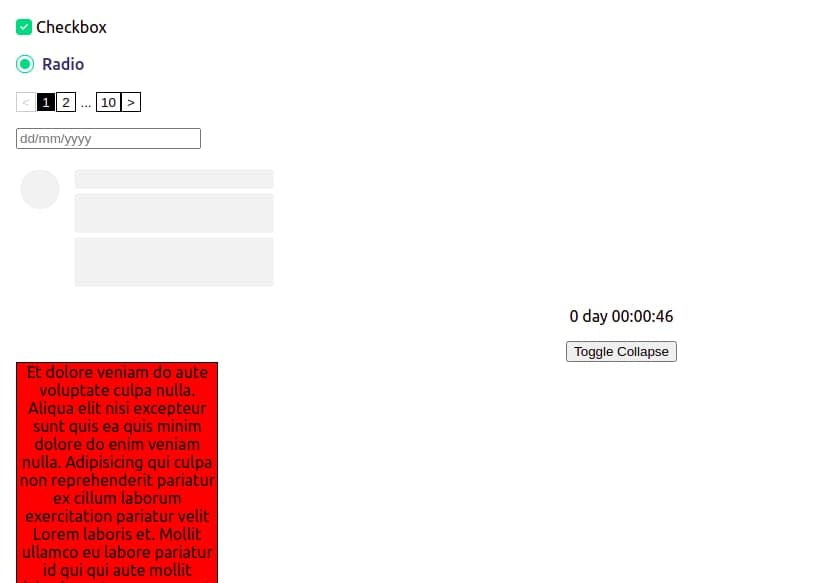
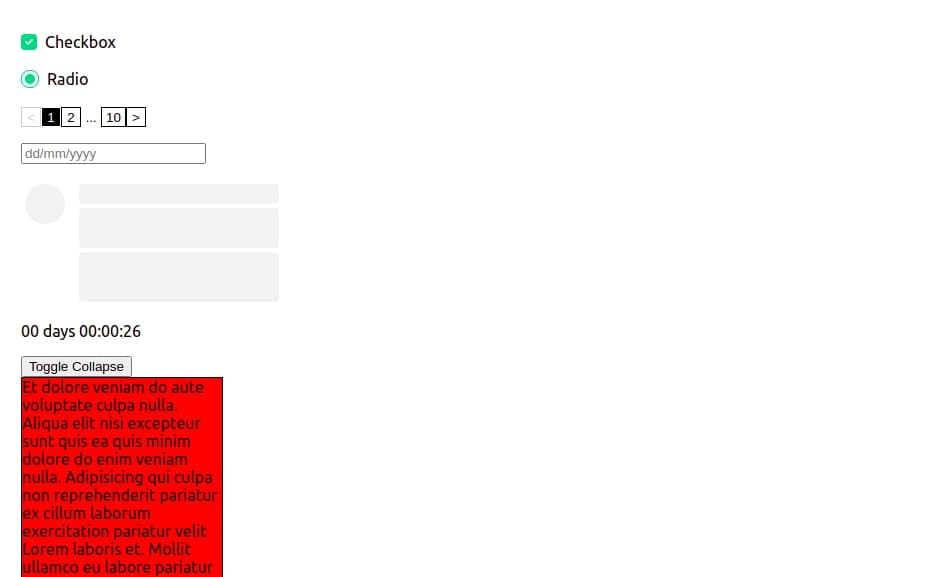
update render in countdown

Changed region(s): [[0.0, 0.5615, 0.2747, 1.0], [0.0, 0.0312, 0.2442, 0.2808], [0.7021, 0.5303, 0.8242, 0.6239]]

diff --git a/src/components/CountDown/index.tsx b/src/components/CountDown/index.tsx
@@ -5,26 +5,18 @@ import {
   MIN_TO_MILISEC,
   SEC_TO_MILISEC,
 } from "./constants";
-import { SCountDown } from "./styles";
-import {
-  CountdownImperativeHandle,
-  ETimerElemen,
-  Props,
-  StateTimer,
-} from "./types";
-import { padTimerElemen } from "./utils";
+import { CountdownImperativeHandle, Props, StateTimer } from "./types";
+import { padTimer } from "./utils";
 
 const CountDown = React.forwardRef<CountdownImperativeHandle, Props>(
   (props, ref) => {
     const {
       then,
-      hideHour = false,
-      hideMin = false,
-      hideSec = false,
-      hideDay = false,
       loading,
       onFinish,
       renderCompletionist,
+      renderer,
+      padNumber = 2,
     } = props;
 
     const refInterval = useRef<any>(null);
@@ -70,47 +62,26 @@ const CountDown = React.forwardRef<CountdownImperativeHandle, Props>(
       // eslint-disable-next-line react-hooks/exhaustive-deps
     }, []);
 
-    if (renderCompletionist) {
-      if (timer.s === 0) {
+    if (timer.s === 0) {
+      if (renderCompletionist) {
         return renderCompletionist();
       }
     }
 
-    if (loading && timer.s === null) {
-      return loading;
+    if (timer.s === null) {
+      if (loading) {
+        return loading;
+      }
+      return null;
     }
 
-    return (
-      <SCountDown>
-        <RenderTimerElemen type={ETimerElemen.D} val={timer.d} hide={hideDay} />
-        <RenderTimerElemen
-          type={ETimerElemen.H}
-          val={timer.h}
-          hide={hideHour}
-        />
-        <RenderTimerElemen type={ETimerElemen.M} val={timer.m} hide={hideMin} />
-        <RenderTimerElemen type={ETimerElemen.S} val={timer.s} hide={hideSec} />
-      </SCountDown>
-    );
+    return renderer({
+      day: padTimer(timer.d, padNumber),
+      hour: padTimer(timer.h, padNumber),
+      min: padTimer(timer.m, padNumber),
+      sec: padTimer(timer.s, padNumber),
+    });
   }
 );
-
-const RenderTimerElemen = ({
-  val,
-  hide,
-  type,
-}: {
-  val: number | null;
-  hide: boolean;
-  type: ETimerElemen;
-}) => {
-  return !hide && val !== null ? (
-    <span>
-      {type === ETimerElemen.D
-        ? `${val} ${val > 1 ? "days " : "day "}`
-        : padTimerElemen(val, type !== ETimerElemen.S)}
-    </span>
-  ) : null;
-};
 
 export default CountDown;

diff --git a/src/App.tsx b/src/App.tsx
@@ -1,5 +1,4 @@
 import React, { useState } from "react";
-import "./App.css";
 import Checkbox from "components/Checkbox";
 import Pagination from "components/Pagination";
 import Radio from "components/Radio";
@@ -18,10 +17,18 @@ function App() {
   return (
     <div className="App">
       <p>
-        <Checkbox text="Checkbox" checked={state} onChange={() => setState((prev) => !prev)} />
+        <Checkbox
+          label="Checkbox"
+          checked={state}
+          onChange={() => setState((prev) => !prev)}
+        />
       </p>
       <p>
-        <Radio text="Radio" checked={state} onChange={() => setState((prev) => !prev)} />
+        <Radio
+          label="Radio"
+          checked={state}
+          onChange={() => setState((prev) => !prev)}
+        />
       </p>
       <p>
         <Pagination
@@ -69,6 +76,11 @@ function App() {
           loading={<p>Loading countdown ...</p>}
           then={new Date(new Date(new Date().getTime() + 60000))}
           renderCompletionist={() => <p>FINISH !!!</p>}
+          renderer={({ day, hour, min, sec }) => (
+            <div>
+              {day} days {hour}:{min}:{sec}
+            </div>
+          )}
         />
       </p>
       <p>

diff --git a/src/components/Radio.tsx b/src/components/Radio.tsx
@@ -4,17 +4,17 @@ import styled from "styled-components";
 interface Props {
   checked?: boolean;
   onChange?: () => void;
-  text?: string;
+  label?: string;
 }
 
-export default function Radio({ checked = false, onChange, text = "" }: Props) {
+export default function Radio({ checked = false, onChange, label = "" }: Props) {
   return (
     <SRadio
       className={`${checked ? "checked" : ""}`}
       {...{ onClick: onChange }}
     >
       <div className="radio"></div>
-      <span className="label">{text}</span>
+      <span className="label">{label}</span>
     </SRadio>
   );
 }
@@ -53,9 +53,6 @@ export const SRadio = styled.div`
     .radio {
       border-color: #9ab1cc;
     }
-    .label {
-      color: #718098;
-    }
   }
   &:not(.checked) {
     &:hover {
@@ -73,10 +70,6 @@ export const SRadio = styled.div`
         transform: scale(1);
         background-color: #00cb82;
       }
-    }
-    .label {
-      color: #333b6a;
-      font-weight: 500;
     }
   }
   .label {

diff --git a/src/components/Checkbox.tsx b/src/components/Checkbox.tsx
@@ -5,10 +5,10 @@ import styled from "styled-components";
 interface Props {
   checked: boolean;
   onChange?: () => void;
-  text?: string;
+  label?: string;
 }
 
-export default function Checkbox({ checked, onChange, text = "" }: Props) {
+export default function Checkbox({ checked, onChange, label = "" }: Props) {
   return (
     <SCheckbox onClick={onChange} checked={checked}>
       <div className="checkbox">
@@ -18,7 +18,7 @@ export default function Checkbox({ checked, onChange, text = "" }: Props) {
           style={{ minWidth: "8px" }}
         />
       </div>
-      {text && <span className="label">{text}</span>}
+      {label && <span className="label">{label}</span>}
     </SCheckbox>
   );
 }
@@ -46,7 +46,7 @@ export const SCheckbox = styled.div<{ checked: boolean }>`
   }
 
   .label {
-    margin-left: 4px;
+    margin-left: 8px;
   }
 
   &:hover {

diff --git a/src/components/CountDown/types.ts b/src/components/CountDown/types.ts
@@ -4,11 +4,19 @@ export interface Props {
   then: Date;
   onFinish?: () => void;
   renderCompletionist?: () => any;
-  hideHour?: boolean;
-  hideMin?: boolean;
-  hideSec?: boolean;
-  hideDay?: boolean;
+  renderer: ({
+    day,
+    hour,
+    min,
+    sec,
+  }: {
+    day: string;
+    hour: string;
+    min: string;
+    sec: string;
+  }) => ReactNode;
   loading?: ReactNode;
+  padNumber?: number;
 }
 
 export interface CountdownImperativeHandle {}

diff --git a/src/components/CountDown/utils.ts b/src/components/CountDown/utils.ts
@@ -1,3 +1,2 @@
-export const padTimerElemen = (val: number, showDivider = true) => {
-  return val.toString().padStart(2, "0") + (showDivider ? ":" : "");
-};
+export const padTimer = (val: number | null, padNumber: number) =>
+  (val || 0).toString().padStart(padNumber, "0");

diff --git a/README.md b/README.md
@@ -1,8 +1,8 @@
 ## Some casual react components using [styled-components](https://styled-components.com)
-### - Checkbox
-### - Radio
-### - Date Picker
-### - Skeleton Loading
-### - Countdown
-### - Collapse
+#### - Checkbox
+#### - Radio
+#### - Date Picker (in progress)
+#### - Skeleton Loading
+#### - Countdown
+#### - Collapse
 <img src="https://github.com/sonht1109/react-components/blob/master/src/assets/images/preview.jpg" width="100%"/>
